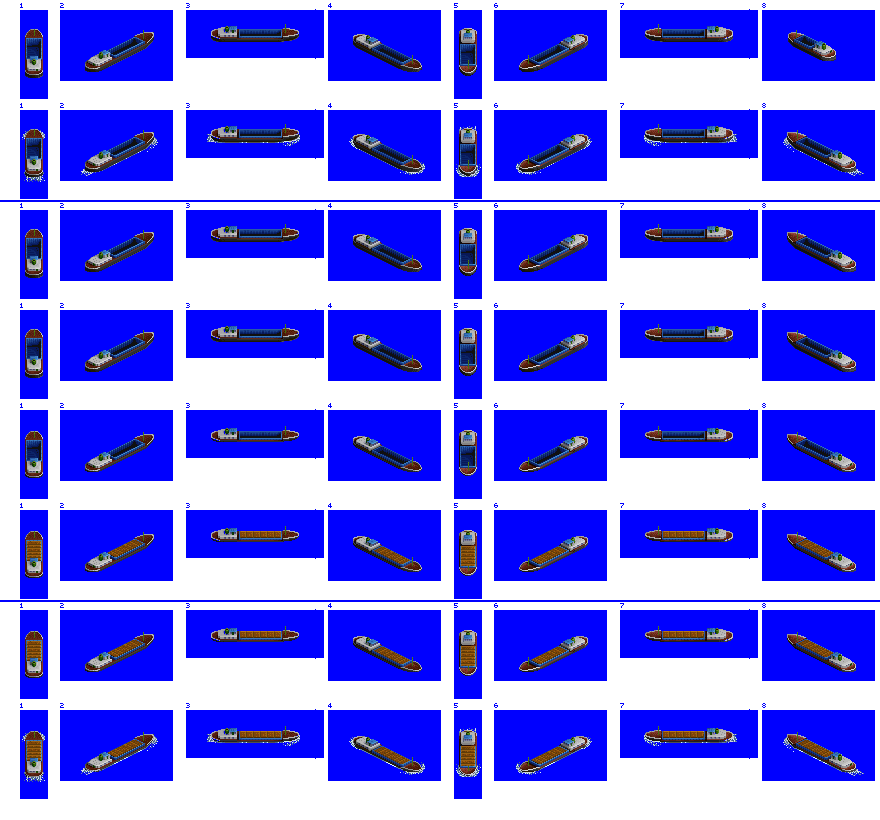
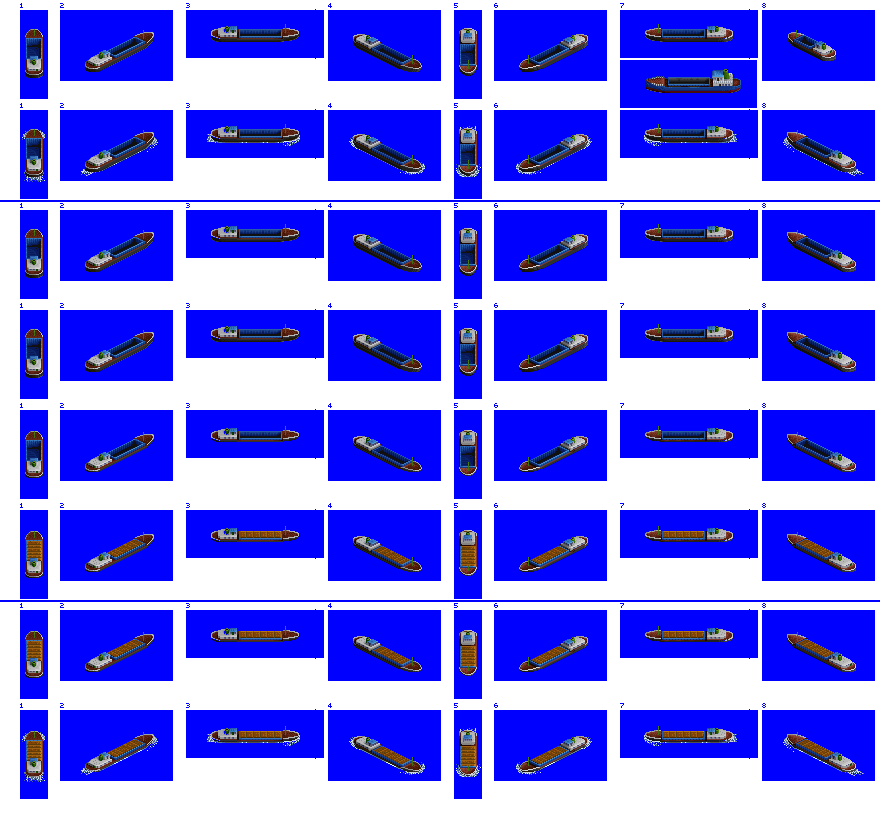
Change: more WIP on developing ship sizes and styles

Changed region(s): [[0.7057, 0.061, 0.8591, 0.1524]]

diff --git a/src/ship.py b/src/ship.py
@@ -408,8 +408,7 @@ class Tanker(Ship):
         self.class_refit_groups = ['liquids']
         self.label_refits_allowed = [] # refits most cargos that have liquid class even if they might be edibles
         self.label_refits_disallowed = global_constants.disallowed_refits_by_label['edible_liquids'] # don't allow known edible liquids
-        self.capacity_tanks = kwargs.get('capacity_tanks', None)
-        self.capacity_freight = self.capacity_tanks
+        self.capacity_freight = kwargs.get('capacity_tanks', None)
         self.default_cargo = 'OIL_'
         self.default_cargo_capacity = self.capacity_freight
 
@@ -424,8 +423,7 @@ class EdiblesTanker(Ship):
         self.class_refit_groups = ['liquids']
         self.label_refits_allowed = [] # refits most cargos that have liquid class even if they might be inedibles
         self.label_refits_disallowed = global_constants.disallowed_refits_by_label['non_edible_liquids'] # don't allow known inedibles
-        self.capacity_tanks = kwargs.get('capacity_tanks', None)
-        self.capacity_freight = self.capacity_tanks
+        self.capacity_freight = kwargs.get('capacity_tanks', None)
         self.default_cargo = 'WATR'
         self.default_cargo_capacity = self.capacity_freight
 

diff --git a/src/ships/edibles_tanker_large.py b/src/ships/edibles_tanker_large.py
@@ -1,0 +1,22 @@
+import global_constants
+from ship import EdiblesTanker
+
+ship = EdiblesTanker(id = 'edibles_tanker_large',
+            numeric_id = 18,
+            title = 'Large [Edibles Tanker]',
+            capacity_cargo_holds = 0,
+            capacity_tanks = 576,
+            buy_cost = 64,
+            fixed_run_cost_factor = 12.0,
+            fuel_run_cost_factor = 1.1,
+            offsets = [[-14, -42], [-68, -26], [-55, -30], [-16, -26], [-14, -54], [-66, -27], [-55, -30], [-14, -26]],
+            buy_menu_width = 128,
+            loading_speed = 40,
+            intro_date = 1870,
+            buy_menu_bb_xy = [620, 28],
+            str_type_info = 'COASTAL_TANKER',
+            effects = ['EFFECT_SPRITE_DIESEL, 12, 0, 18'])
+
+ship.add_model_variant(intro_date=0,
+                       end_date=global_constants.max_game_date,
+                       spritesheet_suffix=0)

diff --git a/src/rosters/default.py b/src/rosters/default.py
@@ -3,6 +3,7 @@ from roster import Roster
 # ships in alphabetical order
 from ships import (bulk_carrier_large,
                    bulk_carrier_small,
+                   edibles_tanker_large,
                    flatdeck_barge_large,
                    livestock_carrier_large,
                    piece_goods_carrier_large,
@@ -38,6 +39,7 @@ roster = Roster(id = 'default',
                          livestock_carrier_large,
                          reefer_small,
                          reefer_large,
+                         edibles_tanker_large,
                          trawler_micro,
                          trawler_mini,
                          trawler_small])
